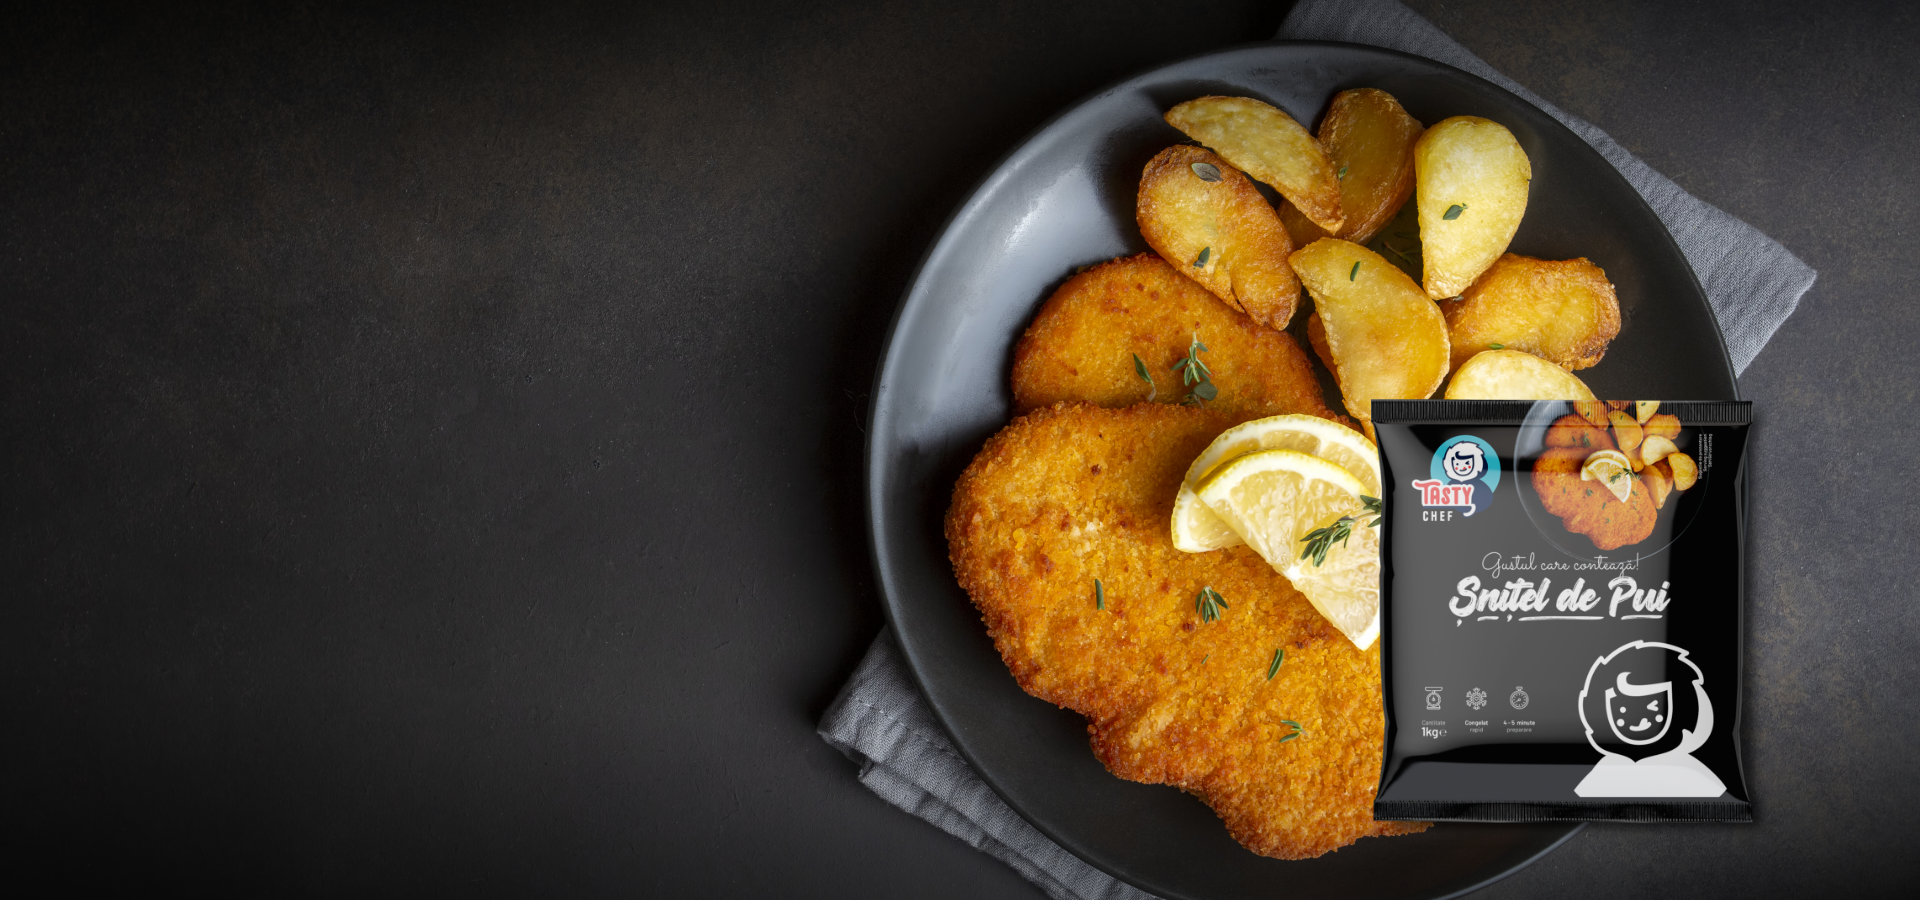
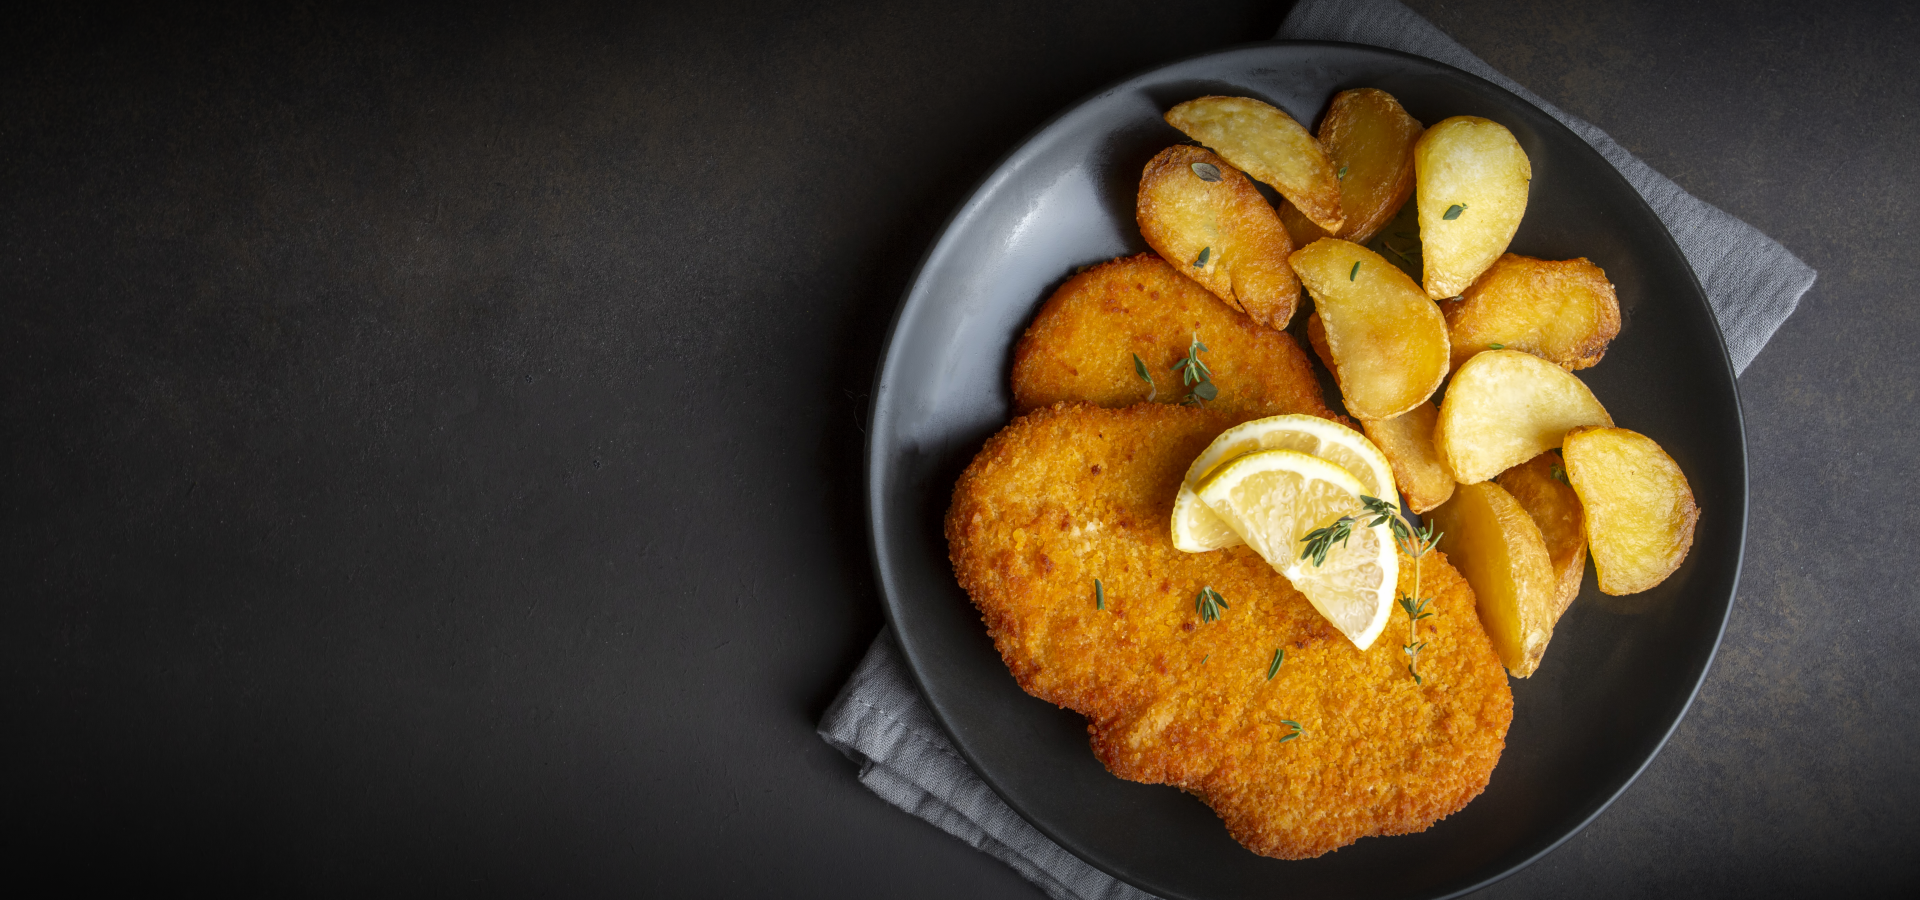
bgfix

Changed region(s): [[0.6875, 0.4356, 0.9375, 0.9333]]

diff --git a/product chef/styles/page1.css b/product chef/styles/page1.css
@@ -58,7 +58,7 @@
         margin: 0;
     }
     #page1{
-        background-position: center right;
+        background-position: center ;
     }
     .page1-content{
         flex-direction: column;
